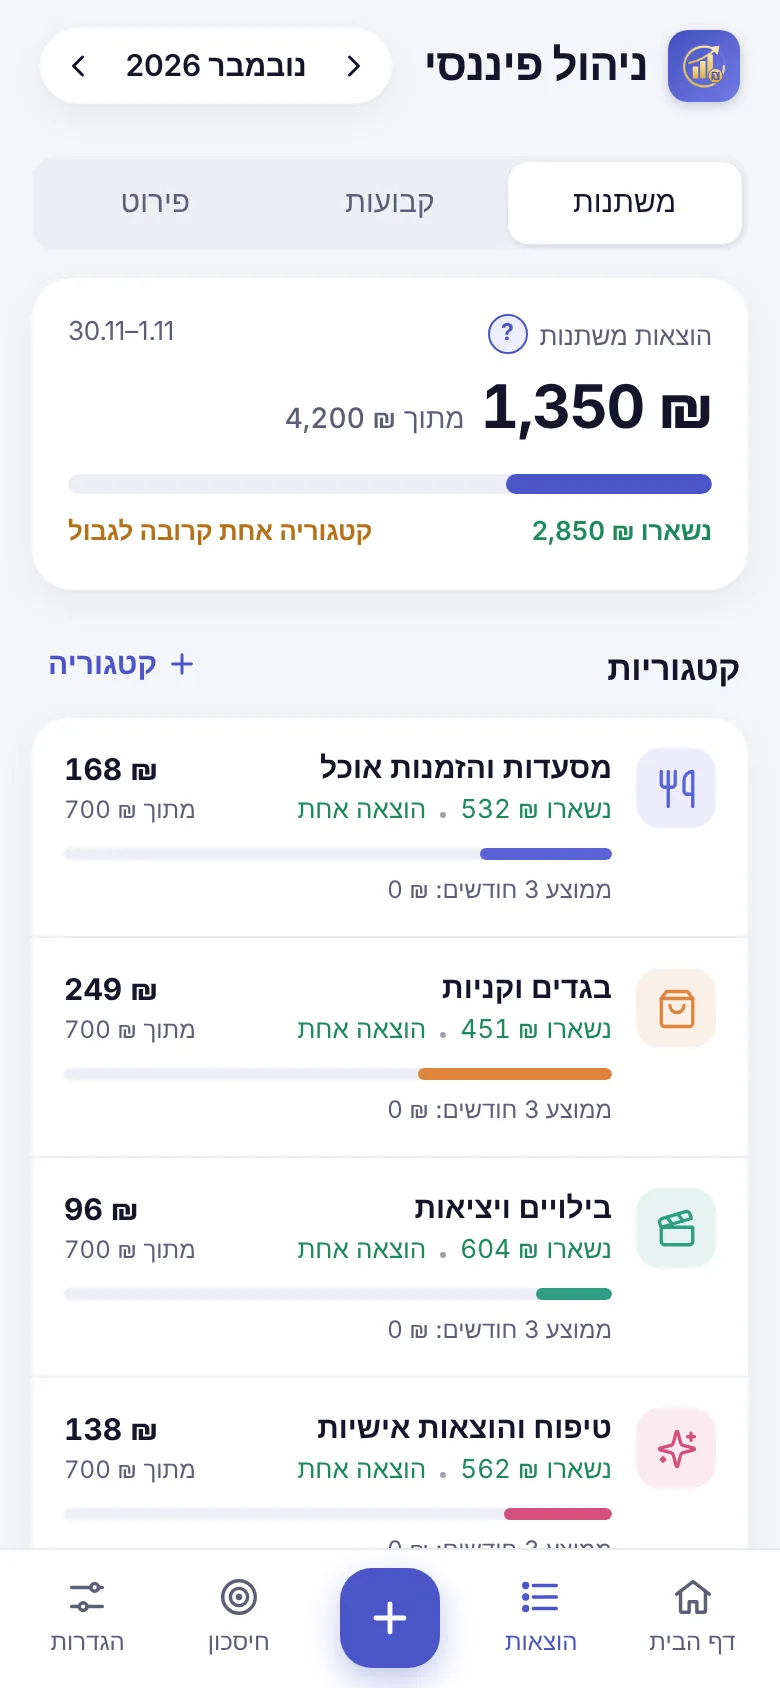
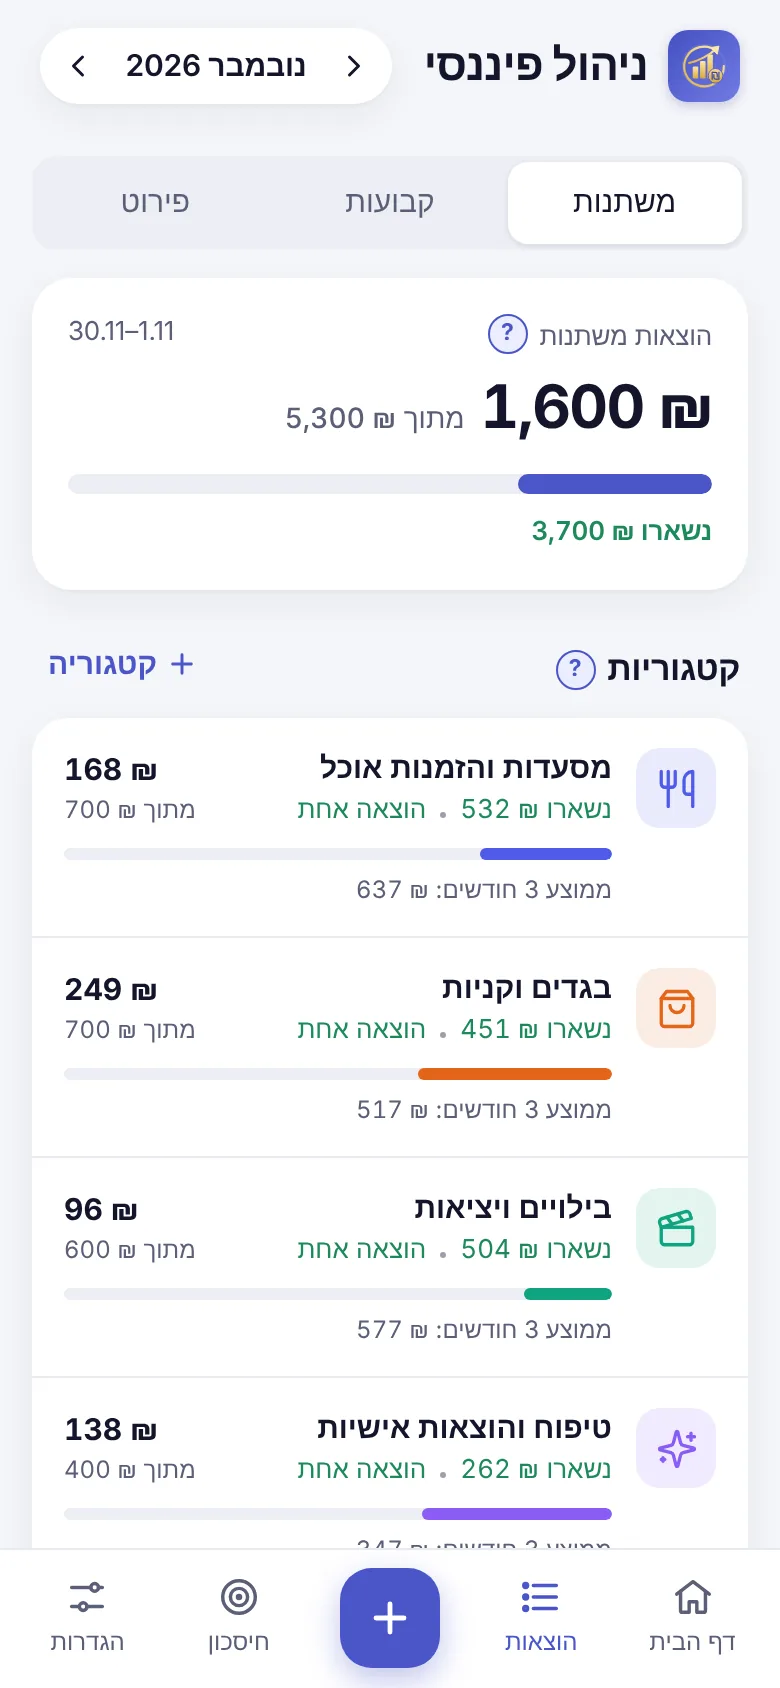
Landing page: new screenshots, setup text, loans answer, contact section
Fresh home, expenses and savings screenshots from the current app; step 5
describes the six setup screens; the loans answer mentions entering loans from
the bank details; a contact card with WhatsApp and email; document links carry
?v= so the updated files open.

Claude-Session: https://claude.ai/code/session_015dGrPc1fZVDW9QtFT21h5Y

diff --git a/index.html b/index.html
@@ -124,6 +124,16 @@ summary::after{content:"+";color:var(--seal);font-size:22px;line-height:1}
 details[open] summary::after{content:"–"}
 details p{margin:0 0 14px;color:var(--ink-2)}
 
+.contact{margin:30px 0 0}
+.contact h2{font-size:22px;margin-bottom:10px}
+.ct-card{background:var(--surface);border-radius:16px;box-shadow:var(--shadow);padding:18px 16px}
+.ct-card p{margin:0 0 4px;color:var(--ink-2)}
+.ct-name{display:block;font-size:18px;margin-bottom:12px}
+.ct-acts{display:flex;flex-wrap:wrap;gap:10px}
+.ct-acts .btn{flex:1 1 220px;min-width:0}
+.ct-wa{background:#1FA855;color:#fff}
+.ct-mail{background:var(--paper);color:var(--ink);border:1.5px solid var(--line);font-size:15.5px}
+.ct-mail bdi{overflow:hidden;text-overflow:ellipsis;white-space:nowrap}
 footer{margin:34px 0 0;padding:22px 0 30px;border-top:1px solid var(--line);color:var(--ink-2);font-size:14px;text-align:center}
 footer p{margin:0 0 6px}
 footer .c{font-weight:600;color:var(--ink)}
@@ -169,7 +179,7 @@ footer .reset{background:none;border:0;color:var(--ink-2);font:14px "Assistant",
     <ul class="shot-row">
       <li class="shot"><div class="frame"><img src="img/home.webp" width="390" height="844" alt="דף הבית: כמה נשאר להוציא עד סוף החודש, וגרף של לאן הלך הכסף" loading="lazy"></div><b>כמה נשאר להוציא</b><span>מספר אחד ברור, וגרף של לאן הלך הכסף</span></li>
       <li class="shot"><div class="frame"><img src="img/expenses.webp" width="390" height="844" alt="דף ההוצאות: תקציב לכל קטגוריה וכמה נשאר בה" loading="lazy"></div><b>תקציב לכל קטגוריה</b><span>רואים מיד איפה עוד יש מקום ואיפה מתקרבים לגבול</span></li>
-      <li class="shot"><div class="frame"><img src="img/saving.webp" width="390" height="844" alt="דף החיסכון: חיסכון בכל חודש מול היעד" loading="lazy"></div><b>החיסכון לאורך השנה</b><span>כל חודש מול היעד, ומה צריך כדי להגיע אליו</span></li>
+      <li class="shot"><div class="frame"><img src="img/saving.webp" width="390" height="844" alt="דף החיסכון: סך הכול בחיסכון, וכל חודש מול היעד" loading="lazy"></div><b>החיסכון לאורך השנה</b><span>סך הכול בחיסכון, וכל חודש מול היעד</span></li>
     </ul>
   </section>
 
@@ -185,7 +195,7 @@ footer .reset{background:none;border:0;color:var(--ink-2);font:14px "Assistant",
         <p>קוראים את <b>המדריך להתנהלות כלכלית נכונה</b>. הוא מסביר, צעד אחר צעד, איך מבינים את ההכנסות וההוצאות ובונים תקציב שמחזיק.</p>
         <ul class="s-list"><li>8 שלבים, עם דוגמאות מספריות</li><li>דף עבודה למילוי</li><li>עדיף להדפיס או לקרוא במחשב</li></ul>
         <p class="next"><b>מתי עוברים הלאה?</b> כשקראתם את כל השלבים ואתם מבינים מה צריך לאסוף: תלושים ודפי חשבון של שלושה חודשים.</p>
-        <div class="acts"><a class="btn btn-p" href="https://nihul-taktziv.github.io/maatafot/guide.pdf" target="_blank" rel="noopener">📘 הורדת המדריך (PDF)</a><button class="btn btn-g" data-done="1">סיימתי ✓</button></div>
+        <div class="acts"><a class="btn btn-p" href="https://nihul-taktziv.github.io/maatafot/guide.pdf?v=20261105b" target="_blank" rel="noopener">📘 הורדת המדריך (PDF)</a><button class="btn btn-g" data-done="1">סיימתי ✓</button></div>
       </div>
       <button class="reopen" data-open="1">פתיחה מחדש</button>
     </li>
@@ -196,7 +206,7 @@ footer .reset{background:none;border:0;color:var(--ink-2);font:14px "Assistant",
         <p>קוראים את <b>המדריך לקובץ האקסל</b>. בכל עמוד יש צילום של גיליון אחד, עם הסבר מה ממלאים, מה מחושב לבד ואיך קוראים את התוצאה.</p>
         <ul class="s-list"><li>עמוד לכל גיליון</li><li>הודעות שעלולות להופיע, ומה עושים</li><li>טעויות נפוצות</li></ul>
         <p class="next"><b>מתי עוברים הלאה?</b> כשברור לכם שממלאים רק את התאים הצהובים, ושהגיליון האחרון מראה מה מזינים באפליקציה.</p>
-        <div class="acts"><a class="btn btn-p" href="https://nihul-taktziv.github.io/maatafot/madrich-excel.pdf" target="_blank" rel="noopener">📗 הורדת מדריך האקסל (PDF)</a><button class="btn btn-g" data-done="2">סיימתי ✓</button></div>
+        <div class="acts"><a class="btn btn-p" href="https://nihul-taktziv.github.io/maatafot/madrich-excel.pdf?v=20261105b" target="_blank" rel="noopener">📗 הורדת מדריך האקסל (PDF)</a><button class="btn btn-g" data-done="2">סיימתי ✓</button></div>
       </div>
       <button class="reopen" data-open="2">פתיחה מחדש</button>
     </li>
@@ -208,7 +218,7 @@ footer .reset{background:none;border:0;color:var(--ink-2);font:14px "Assistant",
         <ul class="s-list"><li>שלושה חודשים של הכנסות והוצאות</li><li>הקובץ מחשב הכול לבד ומראה אם התקציב מחזיק</li><li>הקובץ נשאר אצלכם ולא נשלח לשום מקום</li></ul>
         <p class="note">💻 הכי נוח למלא במחשב, ב-Excel, Numbers או Google Sheets. בטלפון צריך את אפליקציית Excel.</p>
         <p class="next"><b>מתי עוברים הלאה?</b> כשבגיליון האחרון, "9 מה מזינים באתר", כתוב שהתכנון מתאים להכנסה.</p>
-        <div class="acts"><a class="btn btn-p" href="https://nihul-taktziv.github.io/maatafot/budget-planning.xlsx" download>📊 הורדת קובץ האקסל</a><button class="btn btn-g" data-done="3">סיימתי ✓</button></div>
+        <div class="acts"><a class="btn btn-p" href="https://nihul-taktziv.github.io/maatafot/budget-planning.xlsx?v=20261105b" download>📊 הורדת קובץ האקסל</a><button class="btn btn-g" data-done="3">סיימתי ✓</button></div>
       </div>
       <button class="reopen" data-open="3">פתיחה מחדש</button>
     </li>
@@ -219,13 +229,13 @@ footer .reset{background:none;border:0;color:var(--ink-2);font:14px "Assistant",
         <p>מורידים את <b>מדריך ההתקנה</b> וקוראים איך מתקינים את האפליקציה. לא צריך חנות אפליקציות: מוסיפים אותה למסך הבית של הטלפון, והיא עובדת גם בלי אינטרנט.</p>
         <ul class="s-list"><li>התקנה באייפון, באנדרואיד ובמחשב, צעד אחר צעד</li><li>איך שומרים גיבוי, כדי לא לאבד נתונים</li><li>איך מפעילים נעילה בקוד</li></ul>
         <p class="next"><b>מתי עוברים הלאה?</b> כשקראתם את החלק של הטלפון שלכם (אייפון או אנדרואיד) ואתם יודעים מה עושים.</p>
-        <div class="acts"><a class="btn btn-p" href="https://nihul-taktziv.github.io/maatafot/madrich-hatkana.pdf" target="_blank" rel="noopener">📲 הורדת מדריך ההתקנה (PDF)</a><button class="btn btn-g" data-done="4">סיימתי ✓</button></div>
+        <div class="acts"><a class="btn btn-p" href="https://nihul-taktziv.github.io/maatafot/madrich-hatkana.pdf?v=20261105b" target="_blank" rel="noopener">📲 הורדת מדריך ההתקנה (PDF)</a><button class="btn btn-g" data-done="4">סיימתי ✓</button></div>
       </div>
       <button class="reopen" data-open="4">פתיחה מחדש</button>
     </li>
 
     <li class="step" id="s5" data-i="5">
-      <div class="s-head"><span class="num">5</span><div><small>שלב 5 · 5 דקות התקנה ו-10 דקות הקמה</small><h3>מתקינים את האפליקציה</h3><span class="tag now"></span></div></div>
+      <div class="s-head"><span class="num">5</span><div><small>שלב 5 · 5 דקות התקנה ו-15 דקות הקמה</small><h3>מתקינים את האפליקציה</h3><span class="tag now"></span></div></div>
       <div class="s-body">
         <div class="app-box">
           <div class="qr" aria-label="קוד QR לפתיחת האפליקציה בטלפון"><svg role="img" aria-hidden="true" xmlns="http://www.w3.org/2000/svg" viewBox="0 0 33 33"><path stroke="#1c1f33" d="M2 2.5h7m5 0h3m2 0h2m3 0h7m-29 1h1m5 0h1m1 0h1m3 0h1m4 0h1m4 0h1m5 0h1m-29 1h1m1 0h3m1 0h1m1 0h1m2 0h1m2 0h3m2 0h2m1 0h1m1 0h3m1 0h1m-29 1h1m1 0h3m1 0h1m1 0h3m1 0h2m3 0h1m1 0h2m1 0h1m1 0h3m1 0h1m-29 1h1m1 0h3m1 0h1m3 0h1m5 0h4m2 0h1m1 0h3m1 0h1m-29 1h1m5 0h1m4 0h1m1 0h2m1 0h1m1 0h1m3 0h1m5 0h1m-29 1h7m1 0h1m1 0h1m1 0h1m1 0h1m1 0h1m1 0h1m1 0h1m1 0h7m-21 1h2m1 0h2m6 0h2m-21 1h1m5 0h1m1 0h3m2 0h3m1 0h1m2 0h3m2 0h3m-28 1h1m6 0h4m1 0h4m3 0h1m3 0h2m1 0h2m-28 1h1m1 0h2m1 0h2m2 0h1m1 0h1m1 0h4m3 0h1m1 0h3m-21 1h1m2 0h1m2 0h1m1 0h1m1 0h1m3 0h1m4 0h3m-26 1h1m2 0h1m1 0h3m3 0h2m2 0h2m3 0h3m5 0h1m-28 1h2m4 0h2m5 0h7m1 0h3m2 0h2m-29 1h1m2 0h2m1 0h2m1 0h1m1 0h2m1 0h3m1 0h1m3 0h1m1 0h3m-23 1h1m3 0h4m2 0h1m3 0h5m3 0h1m1 0h1m-29 1h3m2 0h4m1 0h1m2 0h1m3 0h1m1 0h2m4 0h2m-27 1h2m5 0h1m5 0h1m1 0h2m2 0h6m1 0h3m-29 1h2m2 0h4m2 0h1m1 0h1m2 0h1m1 0h1m1 0h2m1 0h1m1 0h2m2 0h1m-29 1h1m1 0h2m10 0h3m3 0h1m-21 1h1m1 0h1m3 0h2m3 0h2m4 0h1m2 0h5m1 0h3m-21 1h2m1 0h1m2 0h3m1 0h3m3 0h2m-26 1h7m2 0h1m1 0h1m3 0h6m1 0h1m1 0h3m-27 1h1m5 0h1m2 0h2m1 0h1m2 0h2m1 0h3m3 0h1m2 0h1m-28 1h1m1 0h3m1 0h1m4 0h1m1 0h2m1 0h1m1 0h8m1 0h1m-28 1h1m1 0h3m1 0h1m3 0h3m2 0h7m3 0h2m1 0h1m-29 1h1m1 0h3m1 0h1m2 0h2m3 0h4m2 0h8m-28 1h1m5 0h1m3 0h5m1 0h1m1 0h1m3 0h1m2 0h2m1 0h1m-29 1h7m1 0h1m1 0h2m1 0h1m3 0h1m1 0h1m3 0h1m2 0h1"/></svg>
@@ -233,7 +243,7 @@ footer .reset{background:none;border:0;color:var(--ink-2);font:14px "Assistant",
           <div class="txt">
             <p>פותחים את האפליקציה בטלפון ומתקינים אותה לפי המדריך:</p>
             <ul class="s-list"><li><b>אייפון:</b> בספארי ← כפתור השיתוף ← "הוסף למסך הבית"</li><li><b>אנדרואיד:</b> בכרום ← תפריט ⋮ ← "התקנת אפליקציה"</li></ul>
-            <p>אחר כך פותחים מהאייקון ומעתיקים לאפליקציה את מה שיצא בגיליון 9 באקסל, מלמעלה למטה.</p>
+            <p>אחר כך פותחים מהאייקון ומעתיקים לאפליקציה את מה שיצא בגיליון 9 באקסל, מסך 1 עד מסך 6: הכנסה, מטרת החיסכון, מטרות נוספות, הוצאות קבועות עם יום חיוב, הלוואות וקטגוריות. ההחזר של כל הלוואה וההפרשה לכל מטרה מחושבים לבד.</p>
             <p style="color:var(--ink-2);font-size:15px">קוראים את הדף במחשב? סורקים את הקוד עם מצלמת הטלפון.</p>
           </div>
         </div>
@@ -255,7 +265,19 @@ footer .reset{background:none;border:0;color:var(--ink-2);font:14px "Assistant",
     <details><summary>מישהו רואה את הנתונים שלי?</summary><p>לא. אין הרשמה ואין שרת. קובץ האקסל נשאר במחשב שלכם, והנתונים באפליקציה נשמרים רק בטלפון. לכן חשוב לשמור גיבוי פעם בחודש: בהגדרות ← שמירת גיבוי.</p></details>
     <details><summary>חייבים לעבור את כל השלבים?</summary><p>מומלץ מאוד. אפשר להתחיל ישר מהאפליקציה, אבל תקציב שנבנה עם נתונים אמיתיים של שלושה חודשים מחזיק הרבה יותר טוב מתקציב שנבנה "בערך".</p></details>
     <details><summary>אין לי מחשב</summary><p>אפשר לעשות הכול מהטלפון. המדריכים נפתחים בטלפון, ואת קובץ האקסל ממלאים באפליקציית Excel החינמית. זה פחות נוח, אבל עובד.</p></details>
-    <details><summary>אני במינוס או עם הלוואות. זה מתאים לי?</summary><p>כן. יש במדריך ובקובץ שלב שלם על יציאה מהמינוס, ובאפליקציה מעקב אחרי הלוואות. אם המצב קשה, כדאי לשלב גם ליווי של איש מקצוע.</p></details>
+    <details><summary>אני במינוס או עם הלוואות. זה מתאים לי?</summary><p>כן. יש במדריך ובקובץ שלב שלם על יציאה מהמינוס, ובאפליקציה מזינים כל הלוואה לפי הפרטים מהבנק (סכום, ריבית, מסלול ותאריכים), וההחזר והיתרה מחושבים לבד. אם המצב קשה, כדאי לשלב גם ליווי של איש מקצוע.</p></details>
+  </section>
+
+  <section class="contact" aria-labelledby="contactT">
+    <h2 id="contactT">יצירת קשר</h2>
+    <div class="ct-card">
+      <p>שאלה, הערה או רעיון לשיפור? אשמח לשמוע.</p>
+      <b class="ct-name">בנימין אמבאו</b>
+      <div class="ct-acts">
+        <a class="btn ct-wa" href="https://wa.me/972547271955?text=%D7%A9%D7%9C%D7%95%D7%9D%20%D7%91%D7%A0%D7%99%D7%9E%D7%99%D7%9F%2C%20%D7%9C%D7%92%D7%91%D7%99%20%D7%A0%D7%99%D7%94%D7%95%D7%9C%20%D7%A4%D7%99%D7%A0%D7%A0%D7%A1%D7%99" target="_blank" rel="noopener"><svg viewBox="0 0 24 24" width="20" height="20" aria-hidden="true"><path fill="currentColor" d="M12 2a10 10 0 0 0-8.6 15.1L2 22l5-1.3A10 10 0 1 0 12 2Zm0 18.2c-1.5 0-3-.4-4.3-1.2l-.3-.2-3 .8.8-2.9-.2-.3A8.2 8.2 0 1 1 12 20.2Zm4.5-6.1c-.2-.1-1.5-.7-1.7-.8-.2-.1-.4-.1-.6.1l-.8 1c-.1.2-.3.2-.5.1a6.7 6.7 0 0 1-3.3-2.9c-.3-.4.3-.4.7-1.4.1-.2 0-.3 0-.4l-.8-1.8c-.2-.5-.4-.4-.6-.4h-.5c-.2 0-.4.1-.6.3-.2.2-.8.8-.8 2s.8 2.3 1 2.5c.1.2 1.6 2.5 4 3.5 1.5.6 2 .7 2.8.6.4-.1 1.5-.6 1.7-1.2.2-.6.2-1.1.1-1.2l-.1-.1Z"/></svg><span>וואטסאפ <bdi dir="ltr">054-7271955</bdi></span></a>
+        <a class="btn ct-mail" href="mailto:benny.ambaw1955@gmail.com?subject=%D7%A0%D7%99%D7%94%D7%95%D7%9C%20%D7%A4%D7%99%D7%A0%D7%A0%D7%A1%D7%99"><svg viewBox="0 0 24 24" width="20" height="20" fill="none" stroke="currentColor" stroke-width="1.9" stroke-linecap="round" stroke-linejoin="round" aria-hidden="true"><rect x="3" y="5" width="18" height="14" rx="2"/><path d="m3 7 9 6 9-6"/></svg><bdi dir="ltr">benny.ambaw1955@gmail.com</bdi></a>
+      </div>
+    </div>
   </section>
 
   <footer>
